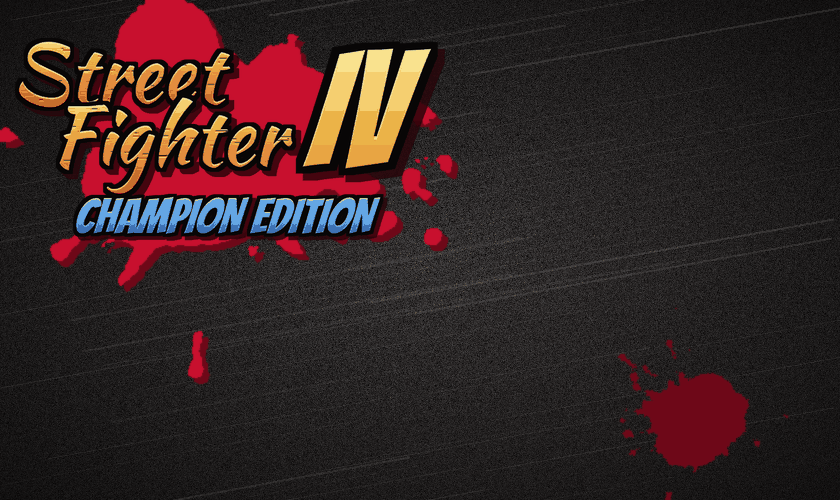
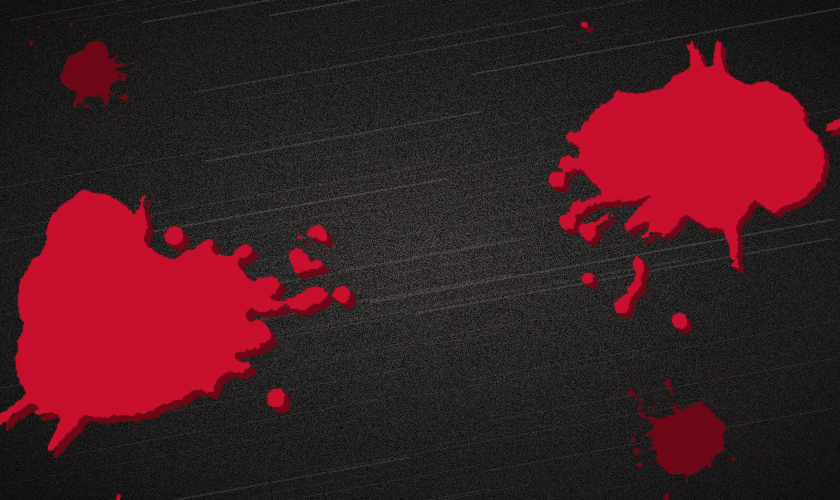
Fan art fitted to the Vita's LiveArea; reproducible output
Measured from the user's screenshots: the Start gate sits centred on
bg0 (x 280-560, y 139-297), system buttons cover the top middle, a
"Start" pill covers the gate image's bottom ~38 px, and the bubble is a
circle. bg0 now has no title (ink framing the gate; the gate shows it),
the gate's title sits above the pill, the bubble's title fits inside
the circle. Confirmed on the Vita.

The noise texture now comes from a seeded random.Random (Pillow's
effect_noise ignored the seeds), so two runs give identical images.

diff --git a/tools/make_original_art.py b/tools/make_original_art.py
@@ -39,11 +39,21 @@ def font(name, size):
     return ImageFont.truetype(os.path.join(FONT_DIR, name), size)
 
 
+def noise_img(size, sigma, rnd):
+    """Gaussian-ish grey noise around 128 from a seeded random.Random
+    (Image.effect_noise ignores our seeds, so the art changed on every run)."""
+    w, h = size
+    a, b, c = (Image.frombytes('L', (w, h), rnd.randbytes(w * h)) for _ in range(3))
+    mix = ImageChops.add(ImageChops.add(a, b, scale=2), c, scale=2)  # std ~45
+    k = sigma / 45.0
+    return mix.point(lambda v: max(0, min(255, int(128 + (v - 128) * k))))
+
+
 def paper(w, h, seed):
     """Dark paper: noise and a few soft blotches, darker towards the edges."""
     rnd = random.Random(seed)
     im = Image.new('RGB', (w, h), PAPER)
-    noise = Image.effect_noise((w, h), 22).convert('RGB')
+    noise = noise_img((w, h), 22, rnd).convert('RGB')
     im = ImageChops.add(im, noise, scale=1.6, offset=-50)
     blot = Image.new('L', (w, h), 0)
     d = ImageDraw.Draw(blot)
@@ -101,7 +111,7 @@ def splash_mask(w, h, cx, cy, size, seed, drops=24, streak=None):
         d.ellipse((x - r, y - r, x + r, y + r), fill=255)
     m = m.filter(ImageFilter.GaussianBlur(max(1.0, size * 0.035)))
     # ragged edges: noise decides the threshold near the boundary
-    noise = Image.effect_noise((w, h), 70).filter(ImageFilter.GaussianBlur(max(0.8, size * 0.012)))
+    noise = noise_img((w, h), 70, rnd).filter(ImageFilter.GaussianBlur(max(0.8, size * 0.012)))
     m = ImageChops.add(m, noise, scale=1.0, offset=-128)
     return m.point(lambda v: 255 if v > 100 else 0).filter(ImageFilter.GaussianBlur(0.7))
 
@@ -149,7 +159,7 @@ def fancy(text, fnt, colors, outline_w, shadow, skew=0.18, brush_seed=None, high
     if brush_seed is not None:
         # dry-brush streaks: stretched noise darkens and nicks the fill
         rnd = random.Random(brush_seed)
-        streak = Image.effect_noise((w // 6 + 1, h), 90).resize((w, h), Image.BICUBIC)
+        streak = noise_img((w // 6 + 1, h), 90, rnd).resize((w, h), Image.BICUBIC)
         streak = streak.filter(ImageFilter.GaussianBlur((max(2, w // 60), 0.6)))
         fill = ImageChops.multiply(fill, Image.merge('RGB', [streak.point(lambda v: 205 + v // 5)] * 3))
         nicks = streak.point(lambda v: 0 if v < 70 + rnd.randint(-5, 5) else 255)
@@ -210,19 +220,31 @@ def make_icon(out):
     splash = splash_mask(w, h, 64, 64, 34, 11, drops=10)
     ink(im, splash, DARK_RED, (3, 3))
     ink(im, splash, RED)
-    place(im, title_block(seed=5), 64, 64, 124, 118)
+    place(im, title_block(seed=5), 64, 64, 100, 64)  # inside the round bubble
     save_palette(im, out, 'icon0.png')
 
 
+# Where the LiveArea puts the Start gate on bg0 (measured on the Vita,
+# 2026-10-22, about +-5 px), and the system buttons along the top middle.
+GATE = (280, 139, 560, 297)
+TOP_BUTTONS = (270, 0, 570, 62)
+
+
 def make_bg(out):
+    """No title here: the gate in the middle shows it. Ink splashes frame the
+    gate from both sides, with speed lines running through."""
     w, h = 840, 500
     im = paper(w, h, 2)
-    im.paste(speed_lines(w, h, 21, 70, WHITE, 40), (0, 0), speed_lines(w, h, 21, 70, WHITE, 40))
-    big = splash_mask(w, h, 210, 150, 150, 22, drops=40, streak=(1, 0.25))
-    ink(im, big, DARK_RED, (6, 6))
-    ink(im, big, RED)
-    ink(im, splash_mask(w, h, 700, 420, 60, 23, drops=18, streak=(-1, -0.4)), DARK_RED)
-    place(im, title_block(seed=1), 230, 140, 430, 250)
+    lines = speed_lines(w, h, 21, 80, WHITE, 40)
+    im.paste(lines, (0, 0), lines)
+    left = splash_mask(w, h, 130, 330, 135, 22, drops=40, streak=(1, -0.3))
+    ink(im, left, DARK_RED, (6, 6))
+    ink(im, left, RED)
+    right = splash_mask(w, h, 720, 150, 110, 24, drops=34, streak=(-1, 0.35))
+    ink(im, right, DARK_RED, (5, 5))
+    ink(im, right, RED)
+    ink(im, splash_mask(w, h, 690, 440, 45, 23, drops=14, streak=(-1, -0.4)), DARK_RED)
+    ink(im, splash_mask(w, h, 90, 70, 35, 25, drops=10, streak=(1, 0.5)), DARK_RED)
     save_palette(im, out, 'bg0.png')
 
 
@@ -232,7 +254,8 @@ def make_startup(out):
     stroke = splash_mask(w, h, 140, 80, 70, 31, drops=10, streak=(1, -0.1))
     ink(im, stroke, DARK_RED, (4, 4))
     ink(im, stroke, RED)
-    place(im, title_block(seed=3), 140, 79, 266, 150)
+    # the LiveArea draws its "Start" pill over the bottom ~38 px (x ~75-205)
+    place(im, title_block(seed=3), 140, 60, 250, 112)
     save_palette(im, out, 'startup.png')
 
 

diff --git a/RESEARCH.md b/RESEARCH.md
@@ -235,7 +235,7 @@ Working notes: in Vita3K a mouse click is a front-panel tap, and Vita3K's keyboa
 - [x] **3. Drop 4× MSAA** (2026-10-20): the user saw no difference on the Vita (sprite edges included); 20 MB more free VRAM. `MSAA` option, default OFF (`utils/glutil.c`).
 - [ ] **4. Start-up splash screens** (Findings 2026-10-20).
   - [x] Replace the template's "android" `pic0.png` in personal builds: `tools/make_livearea.py` (art from the player's own APK; "App artwork" above), in use on the user's Vita since 2026-10-20. Public builds use the project's own fan art since 2026-10-22 (item 6).
-  - [ ] LiveArea layout: on the user's Vita the Start gate (`startup.png`) covers the end of the logo and Ryu's glove on `bg0` (from an earlier session's notes, 2026-10-20; the gate position wasn't recorded). Move the art in `make_livearea.py`'s `bg0`, or the gate in `template.xml`.
+  - [~] LiveArea layout. **Measured on the Vita (2026-10-22, user's screenshots, about ±5 px):** with the `a1` template the LiveArea shows `bg0` (840×500) at screen (60, 44); the Start gate (`startup.png`, 280×158) sits centred at **bg0 x 280–560, y 139–297**; three system buttons (web, update, PS Plus) cover **bg0 x ~270–570, y 0–62**; the Vita draws a **"Start" pill over the gate image's bottom ~38 px** (x ~75–205 of 280). The bubble (`icon0`) is cropped to a circle. **Our fan art fixed and confirmed on the Vita** (2026-10-22): no title on `bg0` (ink framing the gate), the gate's title above the pill, the bubble's title inside the circle (`GATE`/`TOP_BUTTONS` in `make_original_art.py`). **Still open:** the official-art set from `make_livearea.py` (the user's personal builds), where the gate covers the end of the logo and Ryu's glove on `bg0`.
   - [ ] vitaGL's spinning logo: draw our own loading screen instead (App artwork option 4), or link a vitaGL built with `NO_SPLASHSCREEN=1` from the same revision as the SDK package. Either way the time it covers stays; only what's on screen changes.
 - [x] **5. kubridge version check** with a clear "update kubridge" message (old kubridge lacks `kuKernelMemProtect` and crashes at start-up; Findings 2026-10-18). **Hardware (user, 2026-10-22, `game/log_release_prep.txt`): passes with the current kubridge.** On the Vita, user→kernel imports are filled as system calls, `movw ip, #<n>; svc 0; bx lr` (AllocMemBlock `e300cad8 ef000000 e12fff1e`, MemProtect `e300cadd ef000000 e12fff1e`), so a present import has that shape with its own number; a missing one can't be a valid syscall stub. The negative case stays untested (it needs an old kubridge). Built as `game/sf4_vita_hw_release_prep.vpk`: `init.c` compares the filled-in import stub of `kuKernelMemProtect` with that of `kuKernelAllocMemBlock` (in every kubridge), opcodes only, and treats a different shape or a jump to 0 as missing; an empty reference stub skips the check. It logs both stubs (`kubridge stubs:`).
 - [x] **Delete Account hidden** (2026-10-22, user's call; Vita3K, and applied on hardware per `log_release_prep.txt`): the title's button can wipe the save's account and the Champion Pack unlock. Two patches (docs/libGltest2jni.md): `Draw_Title` skips drawing it, `ST_TitleSystem` skips its hit test, so a tap there acts as a normal title tap (checked with an auto-tap in Vita3K: it went on to the menus). `DELETE_ACCOUNT=ON` keeps it.
